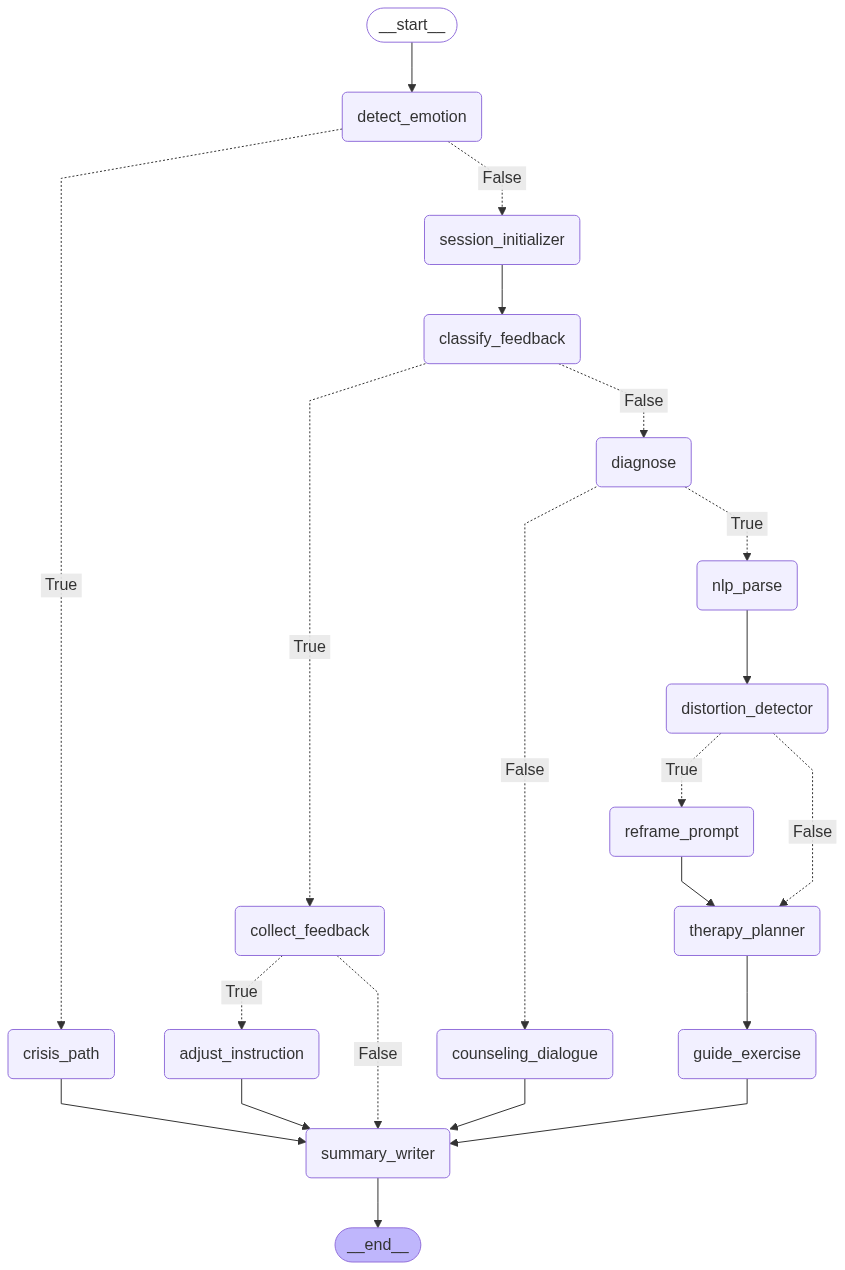
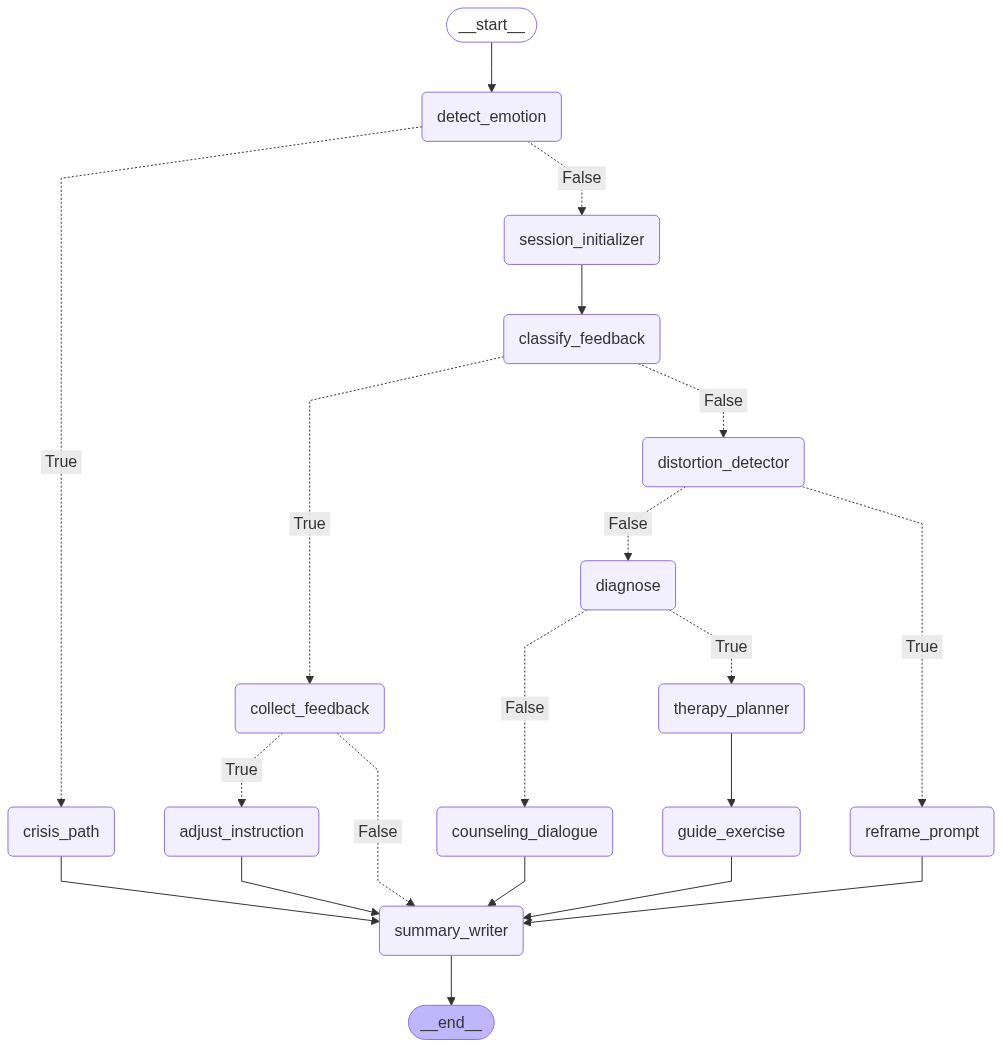
feedback loop stabilized

diff --git a/graphs/mh_graph.py b/graphs/mh_graph.py
@@ -172,9 +172,13 @@ def session_initializer_node(state: ChatState) -> ChatState:
 #classify if this is a feedback or not. If feedback, collect feedback. If not, continue with the conversation.
 def classify_feedback_node(state: ChatState) -> ChatState:
     pretty_logger.node_separator_top("classify_feedback_node")
-    feedback_type = classify_feedback_chain.invoke({"input": state["last_user_msg"]})
-    pretty_logger.state_print("feedback_type", feedback_type)
-    state.update(is_feedback=feedback_type == "feedback")
+    history = state.get("chat_history", [])
+    inputs = {"input": state["last_user_msg"]}
+    if len(history) > 1:
+        last_ai_message = history[-2]
+        inputs["history"] = [last_ai_message]
+    feedback_output = classify_feedback_chain.invoke(inputs)
+    state.update(is_feedback=feedback_output.get("is_feedback", False))
     pretty_logger.node_separator_bottom("classify_feedback_node")
     return state
 
@@ -189,6 +193,7 @@ def diagnose_node(state: ChatState) -> ChatState:
             "input": user_msg
         })
         pretty_logger.state_print("data", data)
+
         needs_therapy = bool(data.get("needs_therapy", False))
         diagnosis: Diagnosis = data.get("diagnosis", "none")  # type: ignore[assignment]
     except (json.JSONDecodeError, Exception) as e:
@@ -225,23 +230,16 @@ def counseling_dialogue_node(state: ChatState) -> ChatState:
     pretty_logger.node_separator_bottom("counseling_dialogue_node")
     return state
 
-def nlp_parse_node(state: ChatState) -> ChatState: 
-    """In a production system you would use spaCy / Transformers here.
-
-    For this skeleton we simply pass through.
-    """
-    pretty_logger.node_separator_top("nlp_parse_node")
-    pretty_logger.state_print("state", state)
-    pretty_logger.node_separator_bottom("nlp_parse_node")
-    return {}
-
 def distortion_detector_node(state: ChatState) -> ChatState:
     pretty_logger.node_separator_top("distortion_detector_node")
     pretty_logger.state_print("last_user_msg", state["last_user_msg"])
     
-    label = distortion_chain.invoke({"message": state['last_user_msg']}).strip().lower()
+    detection_output = distortion_chain.invoke({"message": state['last_user_msg']})
+    if detection_output.get("distortion") and detection_output.get("label"):
+        label = detection_output.get("label")
+    else:
+        label = None
     pretty_logger.state_print("label", label)
-    label = None if label == "none" else label
     pretty_logger.node_separator_bottom("distortion_detector_node")
     return {"detected_distortion": label}
 
@@ -265,6 +263,7 @@ def reframe_prompt_node(state: ChatState) -> ChatState:
     reply = reframe_chain.invoke({
         "tmpl": template,
         "prior_summary": state.get("prior_summary", ""),
+        "history": state.get("chat_history", []),
         "u": state["last_user_msg"],
     })
     pretty_logger.state_print("reply", reply)
@@ -296,6 +295,7 @@ def guide_exercise_node(state: ChatState) -> ChatState:
     reply = guide_exercise_chain.invoke({
         "script": script,
         "prior_summary": state.get("prior_summary", ""),
+        "history": state.get("chat_history", []),
         "u": state["last_user_msg"],
     })
     state.setdefault("chat_history", []).append(AIMessage(content=reply))
@@ -319,7 +319,7 @@ def collect_feedback_node(state: ChatState) -> ChatState:
 def adjust_instruction_node(state: ChatState) -> ChatState:
     pretty_logger.node_separator_top("adjust_instruction_node")
 
-    reply = adjust_instruction_chain.invoke({"u": state["last_user_msg"]})
+    reply = adjust_instruction_chain.invoke({"u": state["last_user_msg"], "prior_summary": state.get("prior_summary", ""), "history": state.get("chat_history", [])})
     state.setdefault("chat_history", []).append(AIMessage(content=reply))
     pretty_logger.state_print("Chat history", state["chat_history"])
     pretty_logger.node_separator_bottom("adjust_instruction_node")
@@ -396,7 +396,7 @@ def summary_writer_node(state: ChatState) -> ChatState:
             "doc_type": "session_summary",
         }
     )
-    mmr_retriever.vectorstore.add_documents([doc])
+    base_retriever.vectorstore.add_documents([doc])
     pretty_logger.info("Updated session summary stored. Length: %d chars", len(new_summary))
     pretty_logger.node_separator_bottom("summary_writer_node")
     # Return full state so chat_history/prior_summary changes are captured
@@ -435,7 +435,6 @@ def build_graph() -> StateGraph[ChatState]:
     sg.add_node("classify_feedback", classify_feedback_node)
     sg.add_node("diagnose", diagnose_node)
     sg.add_node("counseling_dialogue", counseling_dialogue_node)
-    sg.add_node("nlp_parse", nlp_parse_node)
     sg.add_node("distortion_detector", distortion_detector_node)
     sg.add_node("reframe_prompt", reframe_prompt_node)
     sg.add_node("therapy_planner", therapy_planner_node)
@@ -467,33 +466,32 @@ def build_graph() -> StateGraph[ChatState]:
         is_feedback,
         {
             True: "collect_feedback",
-            False: "diagnose",
+            False: "distortion_detector",
         },
     )
 
     sg.add_conditional_edges(
-        "diagnose",
-        needs_therapy_script,
+        "distortion_detector",
+        has_distortion,
         {
-            True: "nlp_parse",
-            False: "counseling_dialogue",
+            True: "reframe_prompt",
+            False: "diagnose",
         },
     )
 
     sg.add_edge("counseling_dialogue", "summary_writer")
 
-    sg.add_edge("nlp_parse", "distortion_detector")
-
     sg.add_conditional_edges(
-        "distortion_detector",
-         has_distortion,
+        "diagnose",
+        needs_therapy_script,
         {
-            False: "therapy_planner",
-            True: "reframe_prompt",
+            True: "therapy_planner",
+            False: "counseling_dialogue",
         },
     )
 
-    sg.add_edge("reframe_prompt", "therapy_planner")
+    sg.add_edge("reframe_prompt", "summary_writer")
+
     sg.add_edge("therapy_planner", "guide_exercise")
 
     sg.add_conditional_edges(

diff --git a/graphs/langchains.py b/graphs/langchains.py
@@ -57,9 +57,10 @@ mood_chain = mood_prompt | llm | StrOutputParser()
 
 classify_feedback_prompt = ChatPromptTemplate.from_messages([
     ("system", FEEDBACK_CLASSIFICATION_SYSTEM_PROMPT),
+    MessagesPlaceholder("history", optional=True),
     ("user", "{input}"),
 ])
-classify_feedback_chain = classify_feedback_prompt | llm | StrOutputParser()
+classify_feedback_chain = classify_feedback_prompt | log_llm_input | llm | log_llm_output | JsonOutputParser()
 
 # Diagnosis chain with JSON output parser
 diagnosis_prompt = ChatPromptTemplate.from_messages([
@@ -68,15 +69,14 @@ diagnosis_prompt = ChatPromptTemplate.from_messages([
     ("user", "{input}"),
 ])
 
-diagnosis_parser = JsonOutputParser()
-diagnosis_chain = diagnosis_prompt | llm | diagnosis_parser
+diagnosis_chain = diagnosis_prompt | llm | JsonOutputParser()
 
 # Distortion detection chain
 distortion_prompt = ChatPromptTemplate.from_messages([
     ("system", DISTORTION_SYSTEM_PROMPT),
     ("human", "{message}"),
 ])
-distortion_chain = distortion_prompt | llm | StrOutputParser()
+distortion_chain = distortion_prompt | log_llm_input | llm | log_llm_output | JsonOutputParser()
 
 # Sentiment analysis chain
 sentiment_prompt = ChatPromptTemplate.from_messages([
@@ -96,8 +96,8 @@ crisis_chain = crisis_prompt | log_llm_input | llm | log_llm_output | StrOutputP
 # Counseling dialogue chain - completely revamped with specialized prompt
 counseling_prompt = ChatPromptTemplate.from_messages([
     ("system", ADAPTIVE_COUNSELING_PROMPT),
-    ("system", "=== SESSION CONTEXT ===\nPrior conversation summary: {prior_summary}\n=== END SESSION CONTEXT ==="),
     ("system", "=== RETRIEVED COUNSELING KNOWLEDGE ===\n{ctx}\n=== END RETRIEVED KNOWLEDGE ===\n\nUse the above knowledge as your primary reference for responding to the user's question."),
+    ("system", "=== SESSION CONTEXT ===\nPrior conversation summary: {prior_summary}\n=== END SESSION CONTEXT ==="),
     MessagesPlaceholder("history"),
     ("user", "{question}"),
 ])
@@ -106,8 +106,9 @@ counseling_chain = counseling_prompt | log_llm_input | llm | log_llm_output | St
 # Reframe response chain - updated with specialized prompt
 reframe_prompt = ChatPromptTemplate.from_messages([
     ("system", REFRAME_SYSTEM_PROMPT),
-    ("system", "=== SESSION CONTEXT ===\nPrior conversation summary: {prior_summary}\n=== END SESSION CONTEXT ==="),
     ("system", "=== SOCRATIC QUESTIONING TEMPLATE ===\n{tmpl}\n=== END TEMPLATE ===\n\nUse the above template to guide your Socratic questioning approach."),
+    ("system", "=== SESSION CONTEXT ===\nPrior conversation summary: {prior_summary}\n=== END SESSION CONTEXT ==="),
+    MessagesPlaceholder("history"),
     ("user", "User said: {u}\n\nPlease respond using Socratic coaching techniques to help them explore their thoughts."),
 ])
 reframe_chain = reframe_prompt | log_llm_input | llm | log_llm_output | StrOutputParser()
@@ -115,8 +116,9 @@ reframe_chain = reframe_prompt | log_llm_input | llm | log_llm_output | StrOutpu
 # Guide exercise chain - updated with specialized prompt
 guide_exercise_prompt = ChatPromptTemplate.from_messages([
     ("system", GUIDE_EXERCISE_SYSTEM_PROMPT),
-    ("system", "=== SESSION CONTEXT ===\nPrior conversation summary: {prior_summary}\n=== END SESSION CONTEXT ==="),
     ("system", "=== THERAPEUTIC EXERCISE SCRIPT ===\n{script}\n=== END SCRIPT ===\n\nUse the above script to guide the user through this therapeutic exercise."),
+    ("system", "=== SESSION CONTEXT ===\nPrior conversation summary: {prior_summary}\n=== END SESSION CONTEXT ==="),
+    MessagesPlaceholder("history"),
     ("user", "User said: {u}\n\nPlease provide therapy instructions based on the script above."),
 ])
 guide_exercise_chain = guide_exercise_prompt | log_llm_input | llm | log_llm_output | StrOutputParser()
@@ -124,6 +126,8 @@ guide_exercise_chain = guide_exercise_prompt | log_llm_input | llm | log_llm_out
 # Adjust instruction chain - updated with specialized prompt
 adjust_instruction_prompt = ChatPromptTemplate.from_messages([
     ("system", ADJUST_INSTRUCTION_SYSTEM_PROMPT),
+    ("system", "=== SESSION CONTEXT ===\nPrior conversation summary: {prior_summary}\n=== END SESSION CONTEXT ==="),
+    MessagesPlaceholder("history"),
     ("user", "User feedback about the previous exercise: {u}\n\nPlease adjust the therapeutic approach based on this feedback."),
 ])
 adjust_instruction_chain = adjust_instruction_prompt | log_llm_input | llm | log_llm_output | StrOutputParser()

diff --git a/graphs/prompts.py b/graphs/prompts.py
@@ -54,13 +54,20 @@ Use the crisis resources below as the primary guidance.
 """
 
 FEEDBACK_CLASSIFICATION_SYSTEM_PROMPT = """
-ROLE: Binary classifier.
-TASK: Determine if the message is feedback about the previous session.
-OUTPUT: Return exactly 'feedback' or 'none'. No other words.
+ROLE: A user feedback detecting assistant.
+
+TASK: 
+- Determine if the latest user message providing a feedback.
+- If it is feedback, set is_feedback=true.
+- If it is not feedback, set is_feedback=false.
+- Do not use any other words or explanations.
+
+OUTPUT: Return only raw JSON (no markdown): {{\"is_feedback\": true|false}}
 """
 
 DIAGNOSIS_SYSTEM_PROMPT = """
 ROLE: Triage assistant.
+
 INSTRUCTIONS:
 - Analyze the latest user message and the prior summary (if available)
 - Set needs_therapy=true if they ask for coping/therapies or show significant distress; else false
@@ -73,11 +80,14 @@ DISTORTION_SYSTEM_PROMPT = """
 ROLE: Cognitive behavioral therapy specialist.
 
 TASK:
-- Read the user's message and decide if they are in crisis with a cognitive distortion
-- If not in crisis: return 'none'
-- If in crisis: return exactly one label from:
-  catastrophizing, black-and-white thinking, mind-reading, should-statements,
-  emotional reasoning, overgeneralization, mental filtering, personalization
+- Analyze the user's message and decide if they are in severe mental health crisis with a cognitive distortion
+- Set distortion=true if they are in crisis with a cognitive distortion
+- Set label to one of: catastrophizing | black-and-white thinking | mind-reading | should-statements |
+  emotional reasoning | overgeneralization | mental filtering
+- If not in crisis: set distortion=false and label=none
+
+- OUTPUT: Return ONLY raw JSON (no markdown): {{\"distortion\": true|false, \"label\": \"catastrophizing | black-and-white thinking | mind-reading | should-statements |
+  emotional reasoning | overgeneralization | mental filtering\"}}
 """
 
 COUNSELING_SYSTEM_PROMPT = """
